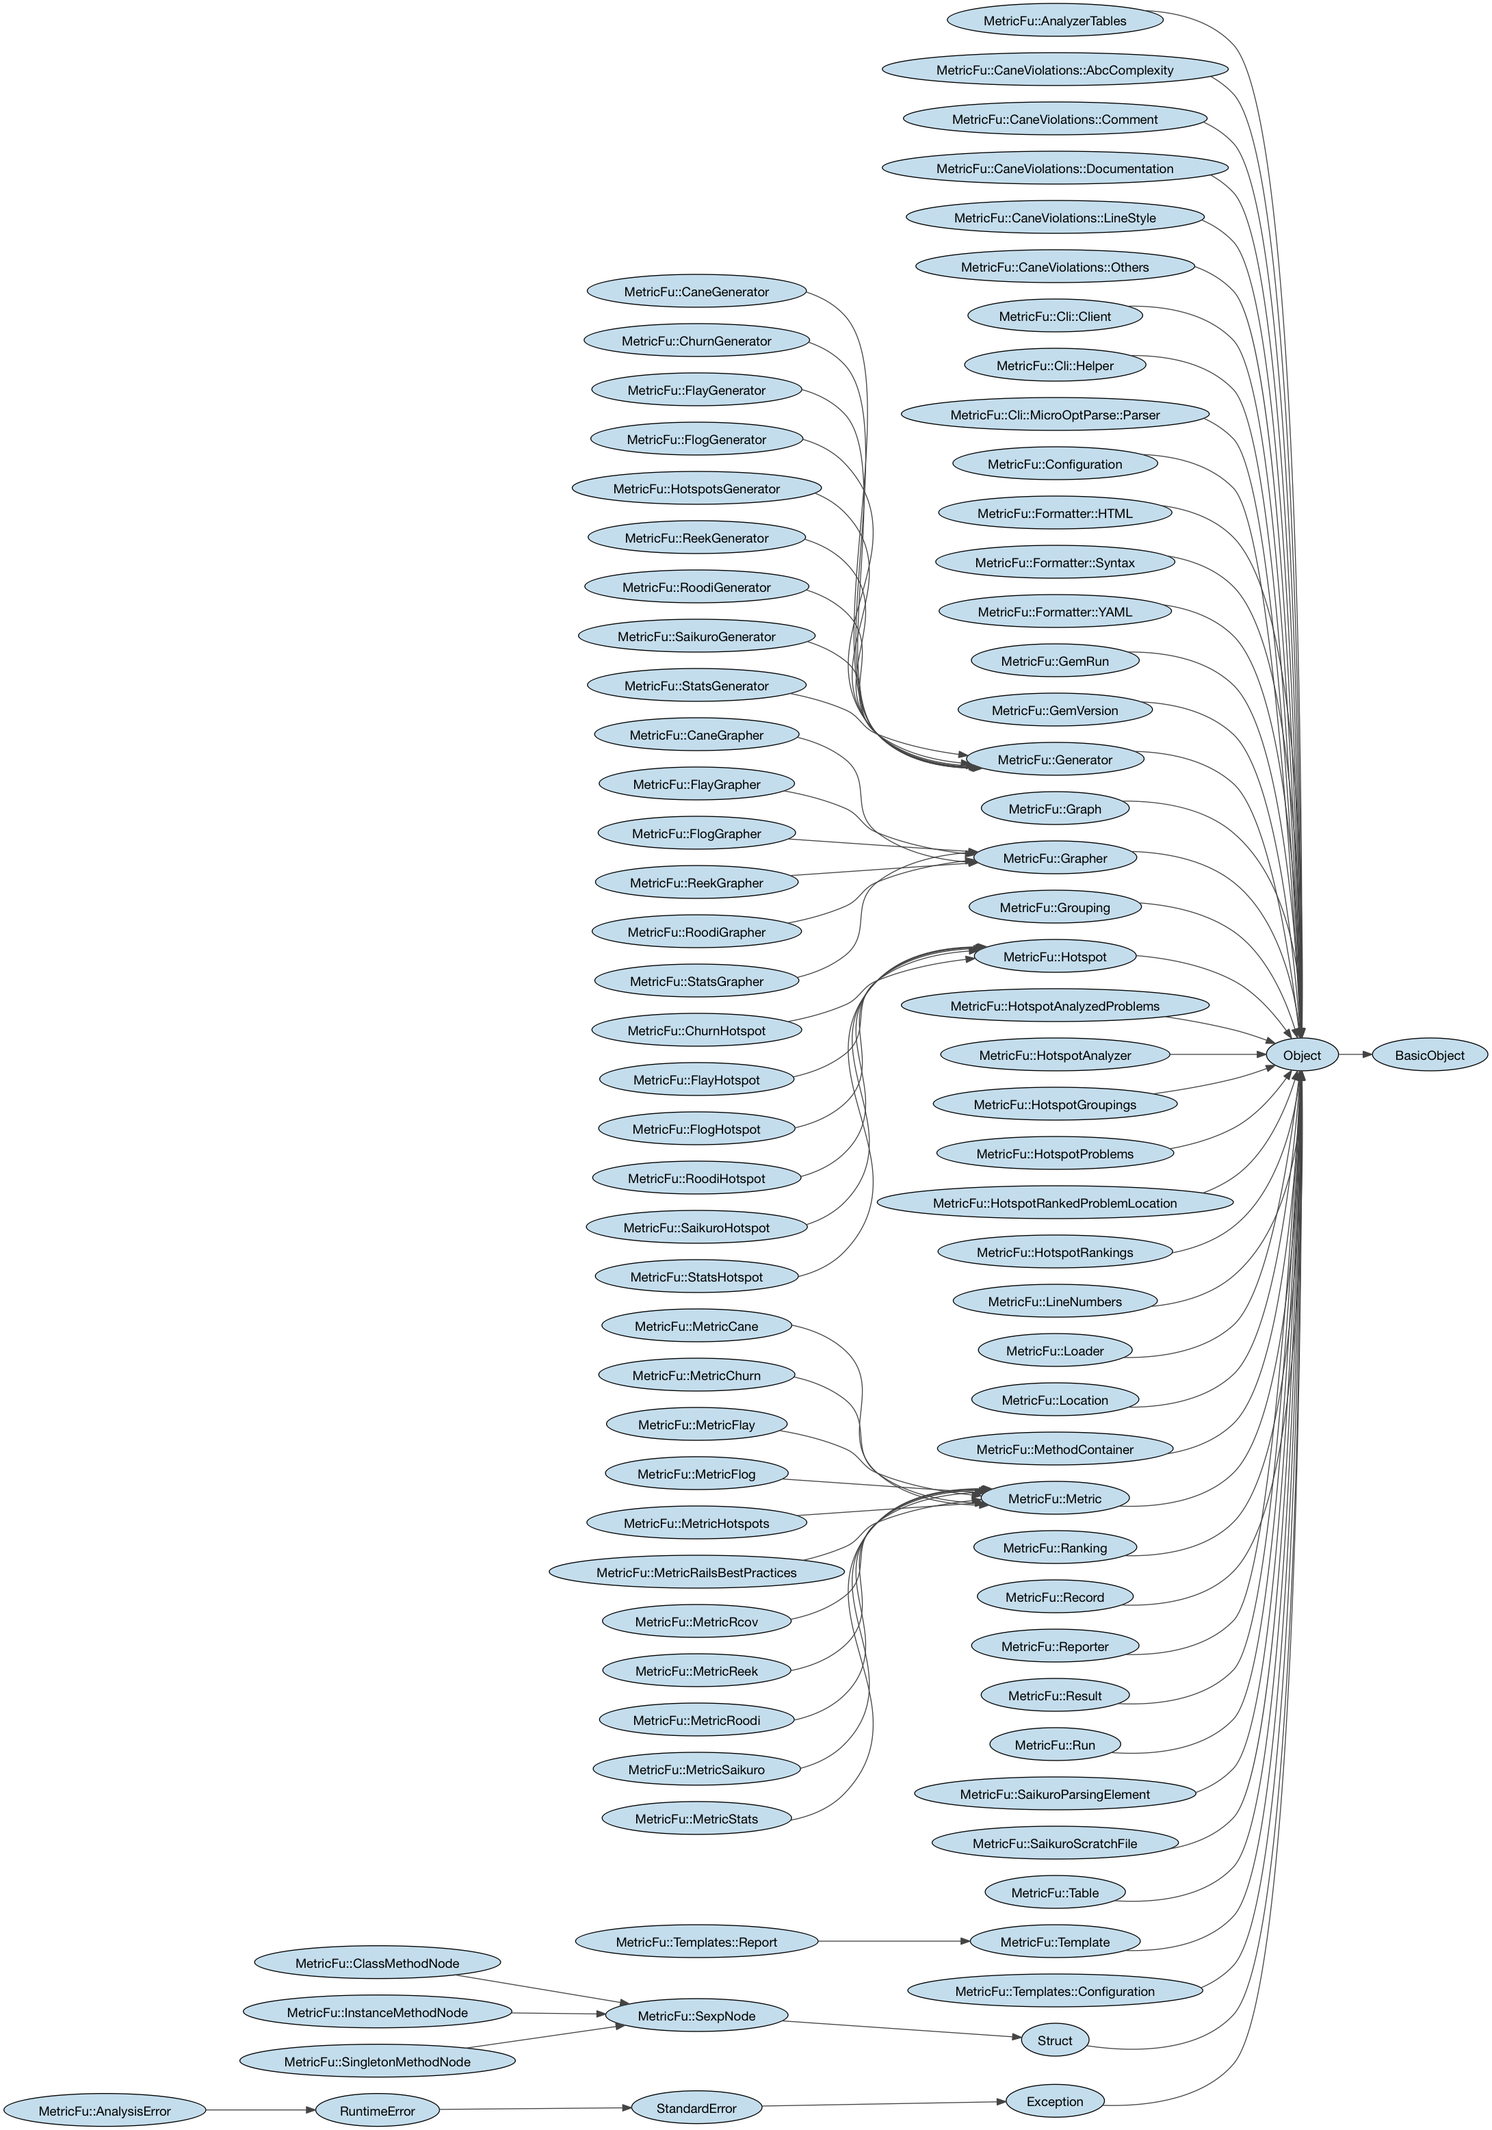
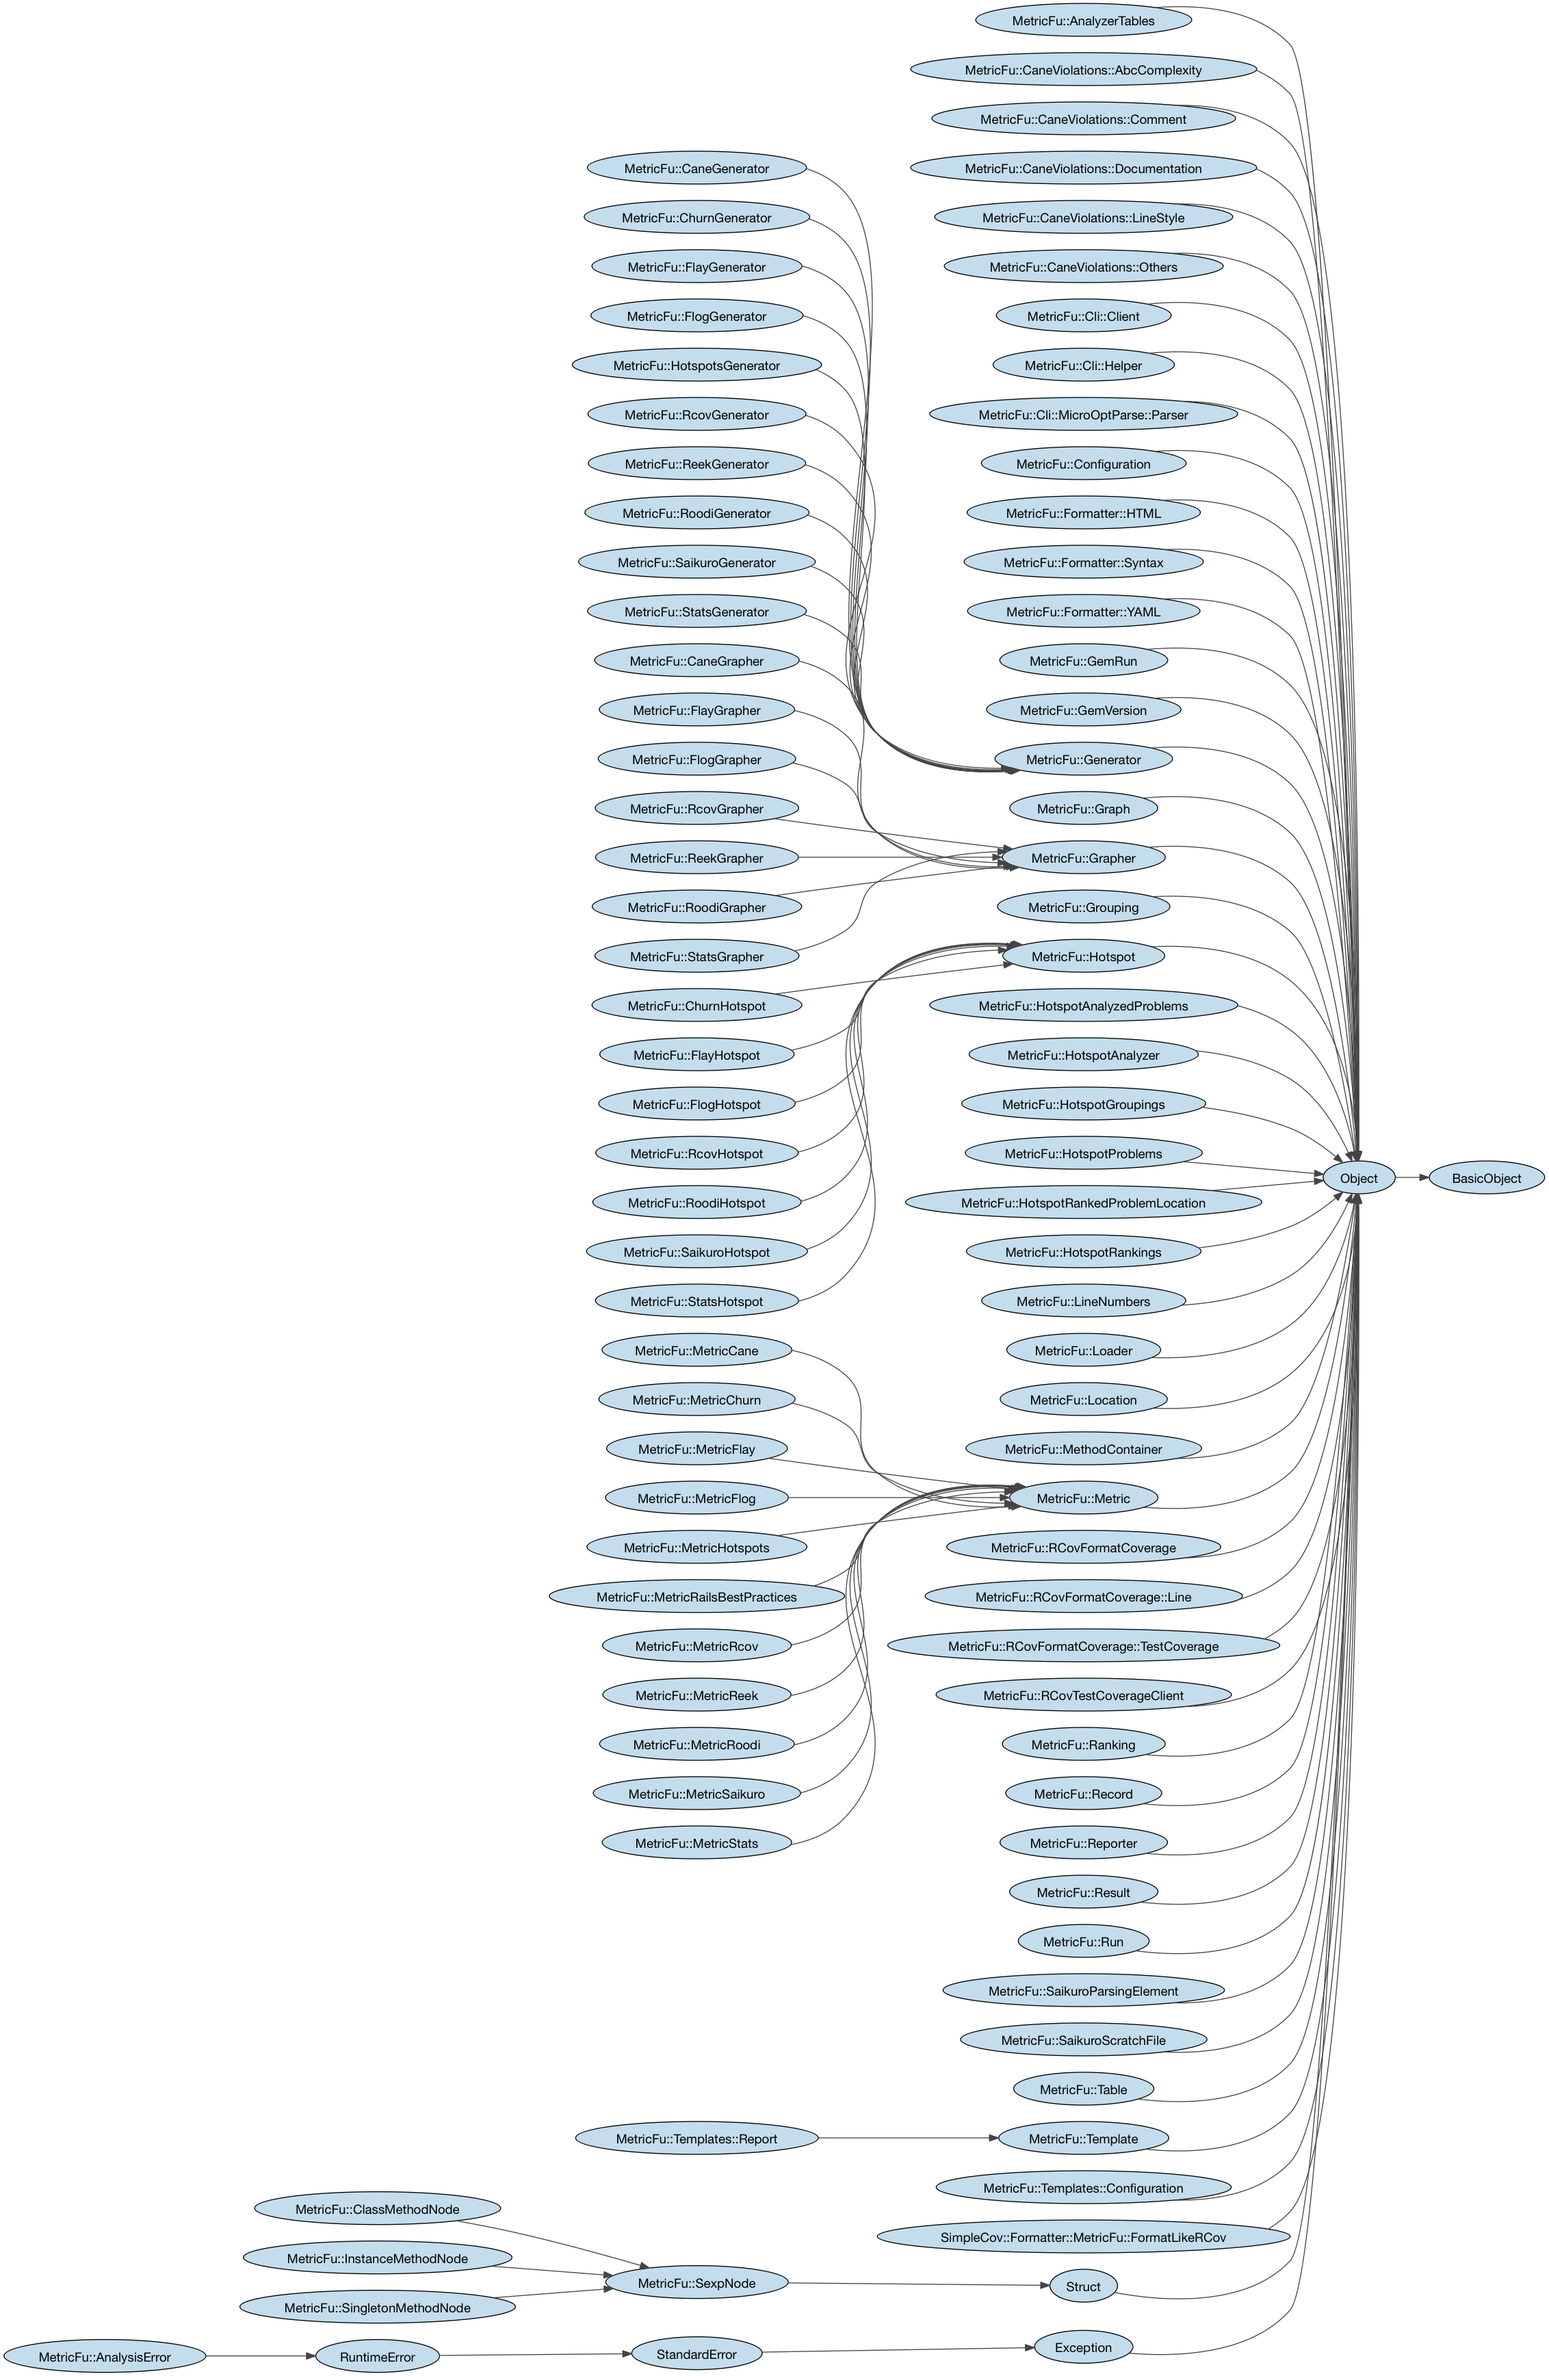
Update CONTRIBUTORS and erd diagrams

Changed region(s): [[0.1559, 0.0, 0.9042, 1.0], [0.0, 0.9659, 0.1247, 1.0], [0.9354, 0.4674, 0.9977, 0.4986]]

diff --git a/etc/README.md b/etc/README.md
@@ -1,16 +1,15 @@
 # Scripts
 
-[Scripts used in this project](https://gist.github.com/bf4/7209165)
-
+`git clone https://gist.github.com/7209165.git scripts`
 
 Generate list of contributors in descending number of code changes
 
 ```sh
-ruby git-rank-contributors.rb > CONTRIBUTORS
+ruby scripts/git-rank-contributors.rb > CONTRIBUTORS
 ```
 
-Generate entity diagram
+Generate entity diagram (gotta ensure all the code runs)
 
 ```sh
-ruby erd.rb
+ruby -Ilib -rmetric_fu -rmetric_fu/cli/client -rmetric_fu/metrics/rcov/simplecov_formatter -e "cli = MetricFu::Cli::Client.new; begin; MetricFu.configuration.configure_metric(:rcov){|rcov| rcov.coverage_file = MetricFu.run_path.join('coverage/rcov/rcov.txt'); rcov.enable; rcov.activate;} cli.run; rescue SystemExit; end; ARGV.clear; ARGV.concat(%w[metric_fu MetricFu AwesomeTemplate SimpleCov::Formatter::MetricFu]); load 'scripts/erd.rb'" && mv erd.* etc/
 ```
